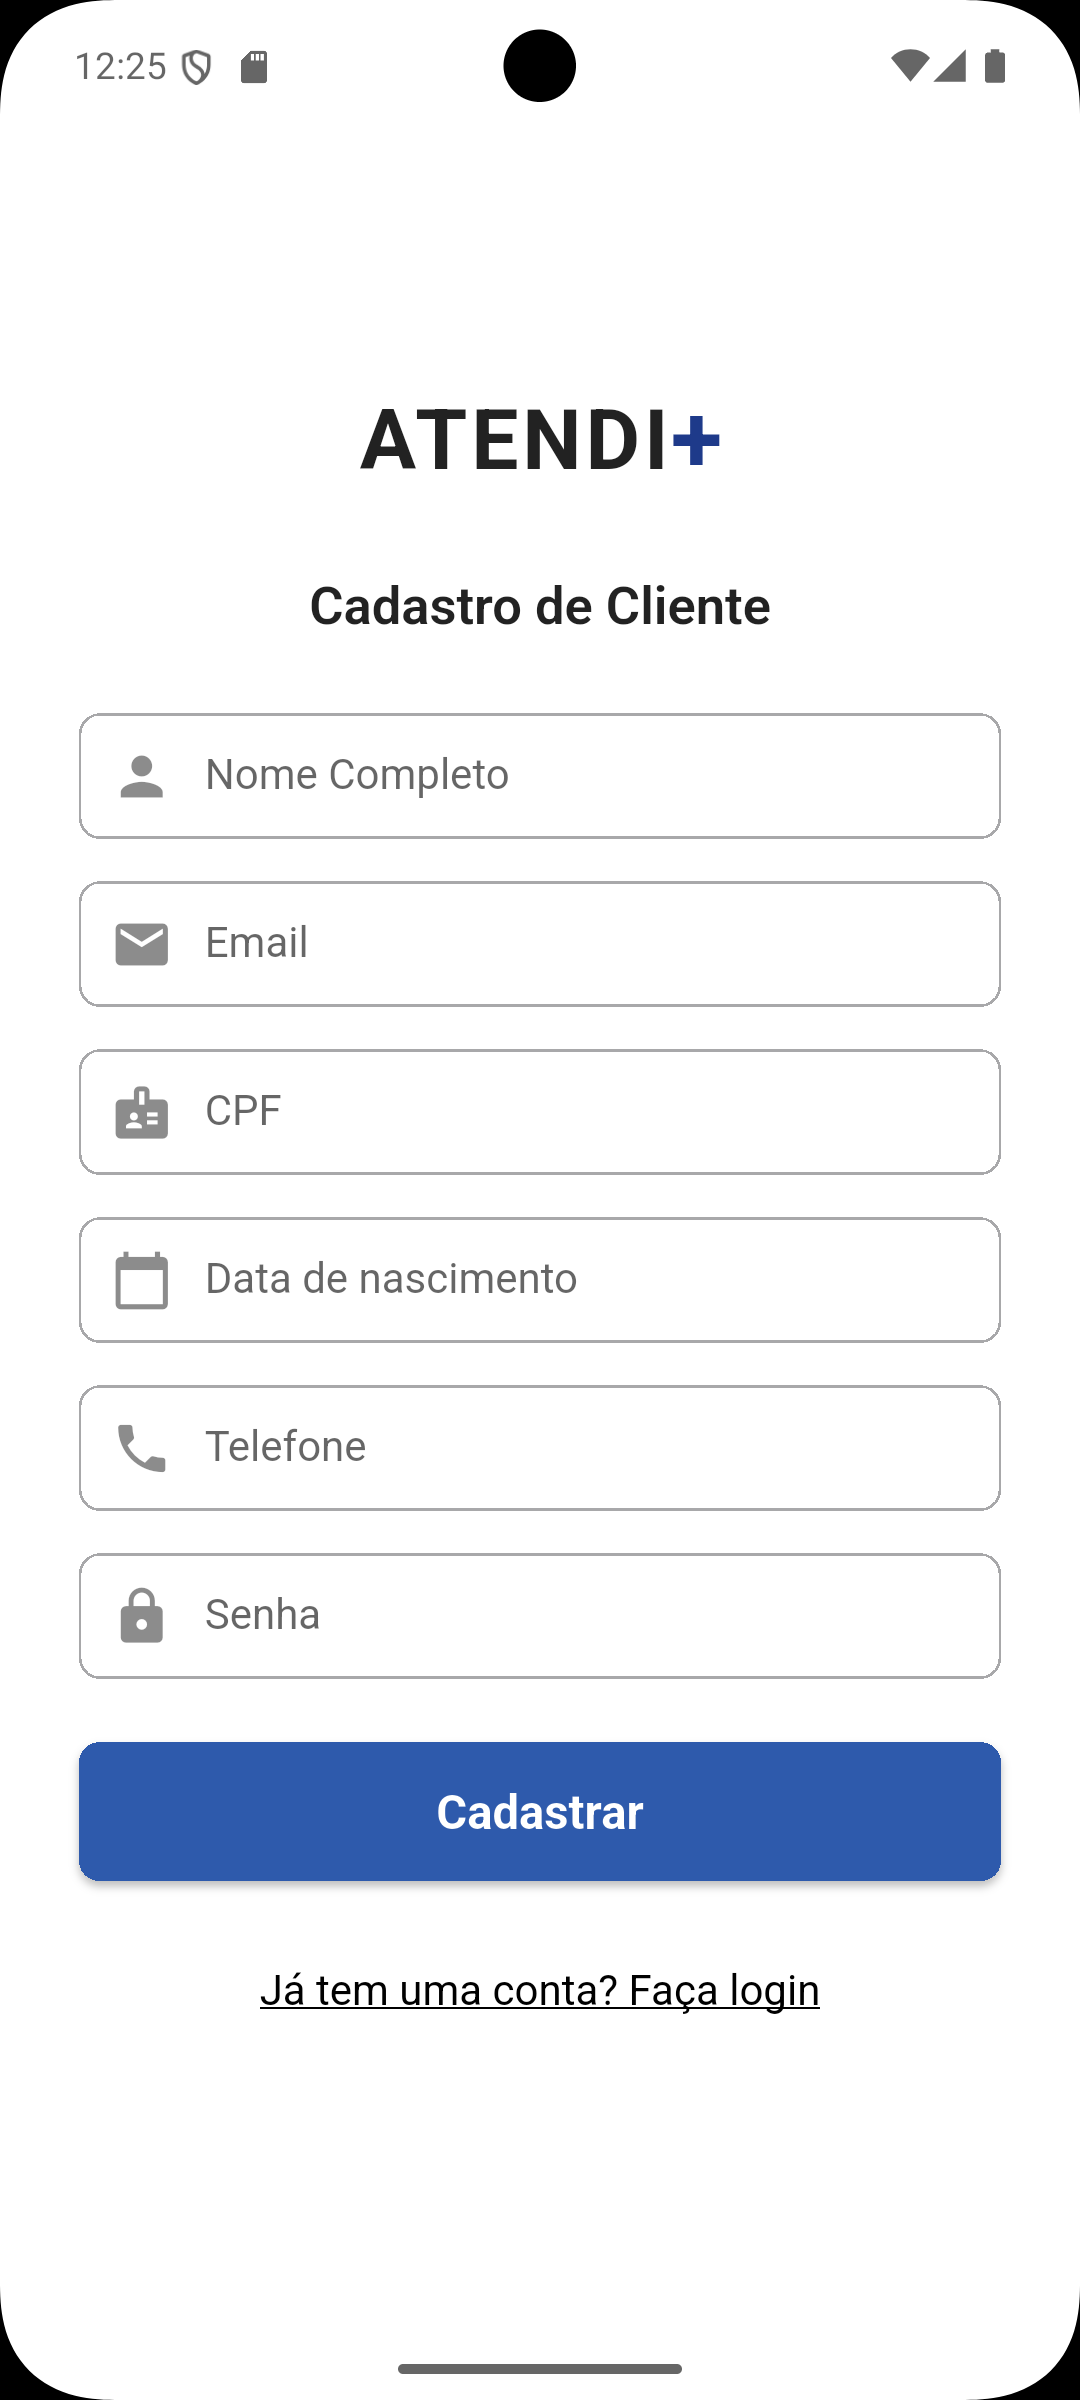
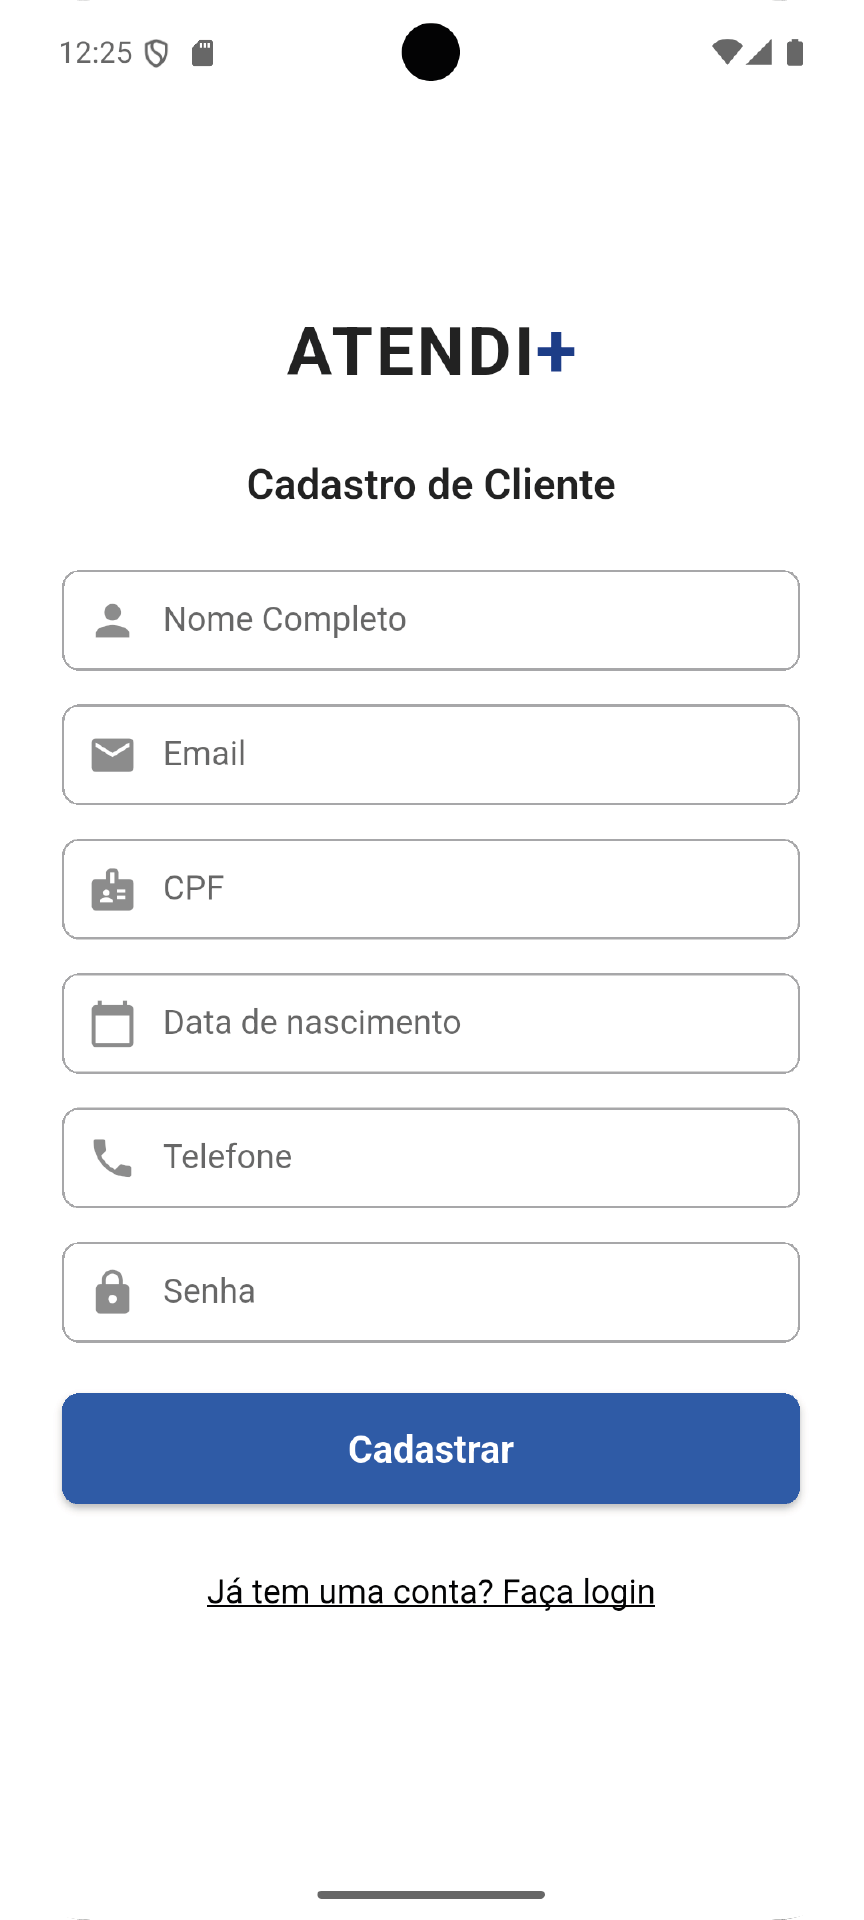
screenshots sao mais leves

diff --git a/README.md b/README.md
@@ -51,7 +51,7 @@ O **Atendi+** digitaliza o processo de atendimento, permitindo:
 
 **Tela de Login:**
 <!-- ![Tela de Login](./login.png) -->
-<img src="./login.png" alt='Tela de Login' width="200" / />
+<img src="./login.png" alt='Tela de Login' width="200" />
 
 **Tela de Cadastro:** 
 
@@ -59,25 +59,23 @@ O **Atendi+** digitaliza o processo de atendimento, permitindo:
 
 **Tela de Menu Principal:**  
 
-<img src="./home.png" alt='Menu Principal' width="200" />
+<img src="./menu.png" alt='Menu Principal' width="200" />
 
 **Tela de Acesso a Fila:**  
 
-<img src="./atendimento.png" alt='Tela de Fila de Atendimento' width="200" />
+<img src="./acessar-fila.png" alt='Tela de Fila de Atendimento' width="200" />
 
 **Tela da Fila de Atendimento:**  
 
 <img src="./fila.png" alt='Tela de Fila de Atendimento' width="200" />
 
-
-
 **Card de Notificações:** 
 
-<img src="./notif.png" alt='Card de Notificações' width="200" />
+<img src="./notifi.png" alt='Card de Notificações' width="200" />
 
 **Modal de Confirmação:** 
 
-<img src="./sairfila.png" alt='Modal de Confirmação' width="200" />
+<img src="./sair-fila.png" alt='Modal de Confirmação' width="200" />
 
 ---
 
